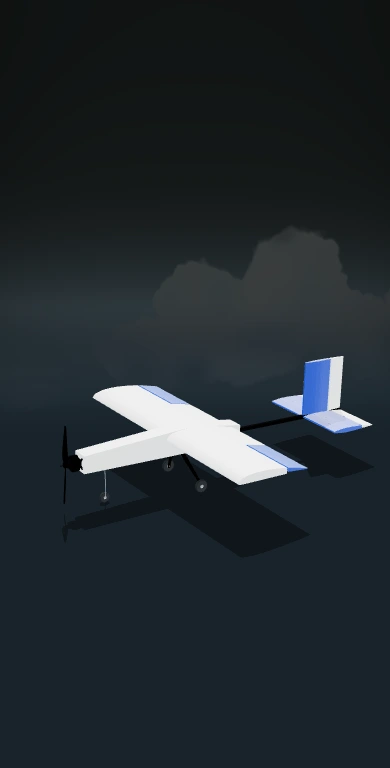
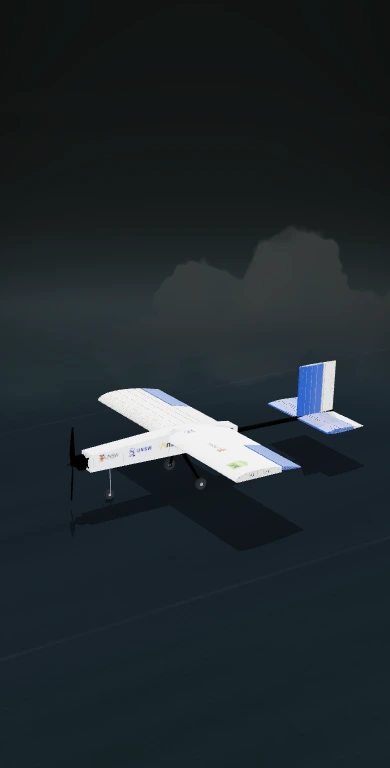
Align trainer livery with reference placements

diff --git a/assets/v3-aircraft-scene.js b/assets/v3-aircraft-scene.js
@@ -67,12 +67,14 @@
     if (metadata.units !== 'metres' || metadata.axes.nose !== '+X' || metadata.axes.up !== '+Y') throw new Error('Unexpected trainer coordinates');
     let trainerLivery = null;
     if (options.trainerLivery) {
-      try {
-        const names = ['left-outer', 'right-inner', 'right-outer'];
-        const maps = await Promise.all(names.map(name => new Promise((resolve, reject) =>
-          new T.TextureLoader().load(directory + 'livery/' + name + '.png', resolve, undefined, reject))));
-        trainerLivery = Object.fromEntries(names.map((name, index) => { maps[index].encoding = T.sRGBEncoding; maps[index].anisotropy = 8; return [name, maps[index]]; }));
-      } catch (_) { /* Keep the trainer available without markings if an image fails. */ }
+      const names = ['left-inner', 'left-outer', 'side-negative', 'side-positive'];
+      const maps = await Promise.all(names.map(name => new Promise(resolve =>
+        new T.TextureLoader().load(directory + 'livery/' + name + '.png?v=trainer-20261105', resolve, undefined, () => resolve(null)))));
+      // An unavailable decal must not suppress the other markings or the model.
+      trainerLivery = Object.fromEntries(names.flatMap((name, index) => {
+        const map = maps[index]; if (!map) return [];
+        map.encoding = T.sRGBEncoding; map.anisotropy = 8; return [[name, map]];
+      }));
     }
     return { group: gltf.scene, metadata, trainerLivery };
   }
@@ -201,15 +203,34 @@
       if (object) filmPanels(T, { ...part, object });
     }
     root.traverse(mesh => {
-      if (!mesh.isMesh || !mesh.userData.separatedFilmPanel) return;
-      const match = mesh.name.match(/^film-wing-(left-outer|right-inner|right-outer)-wrap-sheet-0$/);
-      if (!match) return;
-      const material = mesh.material.clone(); material.map = aircraft.trainerLivery[match[1]];
+      if (!mesh.isMesh) return;
+      let key;
+      const wing = mesh.name.match(/^film-wing-(left-inner|left-outer)-wrap-sheet-0$/);
+      const side = mesh.name.match(/^film-fuselage-body-cap-([01])$/);
+      if (wing && mesh.userData.separatedFilmPanel) key = wing[1];
+      if (side) {
+        key = side[1] === '0' ? 'side-negative' : 'side-positive';
+        // The fuselage caps are flat side sheets in the trainer's metre frame.
+        // Project the artwork in that frame so the logos follow their film
+        // through the hero's peel as well as the assembled fleet presentation.
+        if (aircraft.trainerLivery[key]) {
+          const geometry = mesh.geometry, positions = geometry.attributes.position;
+          const uv = new Float32Array(positions.count * 2);
+          for (let index = 0; index < positions.count; index++) {
+            uv[index * 2] = (positions.getX(index) + .3405) / .995;
+            uv[index * 2 + 1] = (positions.getY(index) - .1905) / .14503;
+          }
+          geometry.setAttribute('uv', new T.BufferAttribute(uv, 2));
+        }
+      }
+      if (!key || !aircraft.trainerLivery[key]) return;
+      const material = mesh.material.clone(); material.map = aircraft.trainerLivery[key];
+      material.color.setRGB(1, 1, 1);
       // The authored film lies on the wing envelope. Keep its printed face
       // in front of coincident underlying surfaces without adding geometry.
       material.polygonOffset = true; material.polygonOffsetFactor = -2; material.polygonOffsetUnits = -2;
       material.roughness = .65; material.metalness = 0; material.clearcoat = 0;
-      mesh.material = material; mesh.userData.trainerLivery = match[1];
+      mesh.material = material; mesh.userData.trainerLivery = key;
     });
   }
   // The authored end tabs are triangle fans. Re-tessellate their planar

diff --git a/v2/projects/skylabs/index.html b/v2/projects/skylabs/index.html
@@ -30,7 +30,7 @@
 <link rel="stylesheet" href="/assets/v2-hardware.css">
 <script src="/assets/v2-hardware.js?v=physical-20261007" defer></script>
 <link rel="stylesheet" href="/assets/v2-skylabs-fleet.css">
-<script src="/assets/v2-skylabs-fleet.js" defer></script>
+<script src="/assets/v2-skylabs-fleet.js?v=trainer-20261105" defer></script>
 </head>
 <body class="v2 v2-case project-page">
   <a class="skip-link" href="/v2/projects/skylabs/#main">Skip to content</a>
@@ -66,7 +66,7 @@
 
     <section class="skylabs-fleet" id="aircraft" data-skylabs-fleet data-fleet-state="static" aria-labelledby="fleet-heading">
       <header class="skylabs-fleet-header"><div><span class="fleet-eyebrow">Skylabs / Aircraft</span><h2 id="fleet-heading">From trainer to competition.</h2><p>A taildragger airframe, a dedicated sensor carriage and a towline returning around the main carbon spar. Scroll through the flight, deployment and return.</p></div><a href="/v2/projects/#skylabs-aircraft">Explore the trainer ↗</a></header>
-      <div class="fleet-track"><div class="fleet-stage"><img class="fleet-poster" src="/assets/models/aircraft/skylabs-competition/poster.webp" width="1440" height="720" alt="Trainer and competition aircraft together, rendered from the existing trainer asset and supplied competition CAD" loading="lazy"><canvas aria-hidden="true"></canvas><div class="fleet-caption"><strong data-fleet-title>01 / Trainer + competition</strong><span data-fleet-caption>Trainer and competition taildragger · source assemblies</span></div><div class="fleet-progress" aria-hidden="true"></div></div></div>
+      <div class="fleet-track"><div class="fleet-stage"><img class="fleet-poster" src="/assets/models/aircraft/skylabs-competition/poster.webp?v=trainer-20261105" width="1440" height="720" alt="Trainer and competition aircraft together, rendered from the existing trainer asset and supplied competition CAD" loading="lazy"><canvas aria-hidden="true"></canvas><div class="fleet-caption"><strong data-fleet-title>01 / Trainer + competition</strong><span data-fleet-caption>Trainer and competition taildragger · source assemblies</span></div><div class="fleet-progress" aria-hidden="true"></div></div></div>
       <p class="fleet-status" role="status">Static CAD preview. Scroll animation is available with motion enabled.</p>
       <div class="fleet-notes"><div><h3>One avionics platform, two airframes.</h3><p>The competition taildragger builds on the trainer’s telemetry platform, with the same ESC provisionally carried forward.</p><p><a href="https://a360.co/4ioq3Ov" target="_blank" rel="noreferrer">Aircraft CAD ↗</a> · <a href="https://a360.co/3WXbmec" target="_blank" rel="noreferrer">Sensor mechanism CAD ↗</a></p></div><div><h3>Out to measure. Back to the aircraft.</h3><p>The Solarfilm peels back to reveal the internal mechanism. The carriage lowers inside the fuselage, then the sensor releases vertically through the bottom on its front-notch tether. The central telemetry board, ESC and control servos stay aboard. The towline loops around the main spar; reverse the scroll to bring the sensor home.</p><p class="fleet-illustrative">Illustrative internal installation and cutaway, using the supplied CAD.</p></div></div>
     </section>

diff --git a/v2/projects/index.html b/v2/projects/index.html
@@ -23,7 +23,7 @@
 <link rel="preload" href="/assets/fonts/archivo-latin-wght-normal.woff2" as="font" type="font/woff2" crossorigin>
 <link rel="stylesheet" href="/assets/aircraft-story.css?v=collection-20261029">
   <script src="/assets/v2-scroll-smoothing.js?v=20261011" defer></script>
-  <script src="/assets/v3-aircraft-hero.js?v=speed-20261029" defer></script>
+  <script src="/assets/v3-aircraft-hero.js?v=trainer-20261105" defer></script>
 </head>
 <body class="v2 v2-collection">
   <a class="skip-link" href="/v2/projects/#collection">Skip to content</a>
@@ -41,7 +41,7 @@
     <section class="v3-aircraft v2-aircraft-feature v2-projects-aircraft" data-aircraft-hero data-aircraft-detailed data-aircraft-deferred data-aircraft-smooth data-aircraft-background data-aircraft-collection aria-labelledby="projects-title">
       <div class="v3-aircraft-stage" data-aircraft-stage>
         <div class="v3-aircraft-visual" data-aircraft-visual>
-          <picture data-aircraft-picture><source media="(max-width:760px)" srcset="/assets/images/v3/skylabs-stopped-mobile.webp?v=sky-20261008" data-approach="/assets/images/v3/skylabs-approach-mobile.webp?v=sky-20261008" data-stopped="/assets/images/v3/skylabs-stopped-mobile.webp?v=sky-20261008"><img data-aircraft-poster src="/assets/images/v3/skylabs-stopped.webp?v=sky-20261008" data-approach="/assets/images/v3/skylabs-approach.webp?v=sky-20261008" data-stopped="/assets/images/v3/skylabs-stopped.webp?v=sky-20261008" width="1600" height="1000" alt="The Skylabs trainer aircraft, with its wing, tail and landing gear assembled" decoding="async" fetchpriority="high"></picture>
+          <picture data-aircraft-picture><source media="(max-width:760px)" srcset="/assets/images/v3/skylabs-stopped-mobile.webp?v=trainer-20261105" data-approach="/assets/images/v3/skylabs-approach-mobile.webp?v=trainer-20261105" data-stopped="/assets/images/v3/skylabs-stopped-mobile.webp?v=trainer-20261105"><img data-aircraft-poster src="/assets/images/v3/skylabs-stopped.webp?v=trainer-20261105" data-approach="/assets/images/v3/skylabs-approach.webp?v=trainer-20261105" data-stopped="/assets/images/v3/skylabs-stopped.webp?v=trainer-20261105" width="1600" height="1000" alt="The Skylabs trainer aircraft, with its wing, tail and landing gear assembled" decoding="async" fetchpriority="high"></picture>
           <canvas data-aircraft-canvas aria-hidden="true"></canvas>
         </div>
         <div class="v3-aircraft-copy" data-aircraft-copy>

diff --git a/assets/v2-skylabs-fleet.js b/assets/v2-skylabs-fleet.js
@@ -79,7 +79,7 @@
   try{
    if(!window.DecompressionStream)throw Error('Static view');
    await script('/assets/vendor/three.min.js',()=>!!window.THREE);await script('/assets/vendor/GLTFLoader.js',()=>!!window.THREE.GLTFLoader);
-   await script('/assets/v3-aircraft-scene.js',()=>!!window.V3AircraftScene);await script('/assets/v2-hero-environment.js',()=>!!window.V2ProductStudio);await script('/assets/v2-skylabs-film.js',()=>!!window.V2SkylabsFilm);await script('/assets/v2-hero-assets.js',()=>!!window.V2HeroAssets);await script('/assets/v3-aircraft-electronics.js',()=>!!window.V3AircraftElectronics);await script('/assets/v2-skylabs-systems.js',()=>!!window.V2SkylabsSystems);
+   await script('/assets/v3-aircraft-scene.js?v=trainer-20261105',()=>!!window.V3AircraftScene);await script('/assets/v2-hero-environment.js',()=>!!window.V2ProductStudio);await script('/assets/v2-skylabs-film.js',()=>!!window.V2SkylabsFilm);await script('/assets/v2-hero-assets.js',()=>!!window.V2HeroAssets);await script('/assets/v3-aircraft-electronics.js',()=>!!window.V3AircraftElectronics);await script('/assets/v2-skylabs-systems.js',()=>!!window.V2SkylabsSystems);
    const models=await Promise.all([asset('skylabs-competition'),asset('skylabs-mechanism'),window.V3AircraftScene.load(window.THREE,{trainerLivery:true}),asset('skylabs-mechanism','sensor-body.glb.gz'),fetch('/assets/models/aircraft/skylabs-competition/solarfilm.json.gz').then(async response=>{if(!response.ok)throw Error('Film unavailable');return new Response(response.body.pipeThrough(new DecompressionStream('gzip'))).json();}),window.V2HeroAssets.load('telemetry'),Promise.all(['left-white','left-blue','right-white','right-blue'].map(name=>new Promise((resolve,reject)=>new THREE.TextureLoader().load('/assets/models/aircraft/skylabs-competition/livery/'+name+'.png',resolve,undefined,reject)))).catch(()=>null)]);const T=THREE;
    const livery=models[6]?Object.fromEntries(['left-white','left-blue','right-white','right-blue'].map((name,index)=>{const texture=models[6][index];texture.encoding=T.sRGBEncoding;return [name,texture];})):{};root.dataset.fleetLivery=models[6]?'ready':'unavailable';
    scene=new T.Scene();camera=new T.PerspectiveCamera(37,1,.2,20);renderer=new T.WebGLRenderer({canvas,alpha:true,antialias:true,preserveDrawingBuffer:true});renderer.outputEncoding=T.sRGBEncoding;renderer.toneMapping=T.ACESFilmicToneMapping;renderer.toneMappingExposure=.8;

diff --git a/assets/v3-aircraft-hero.js b/assets/v3-aircraft-hero.js
@@ -474,7 +474,7 @@
           // The decoder is independent of Three and the scene factory. Start
           // both helpers together so their round trips do not serialize.
           await Promise.all([
-            window.V3AircraftScene ? Promise.resolve() : script('/assets/v3-aircraft-scene.js?v=' + (background ? 'speed-20261029' : 'aircraft-transition-20261010')),
+            window.V3AircraftScene ? Promise.resolve() : script('/assets/v3-aircraft-scene.js?v=' + (background ? 'trainer-20261105' : 'aircraft-transition-20261010')),
             background && !window.MeshoptDecoder ? script('/assets/vendor/meshopt_decoder.js').catch(() => {}) : Promise.resolve()
           ]);
           if (!sourceEligible()) return;

diff --git a/scripts/build-trainer-livery.py b/scripts/build-trainer-livery.py
@@ -1,0 +1,90 @@
+"""Build trainer-only livery from the checked-in logo sources.
+
+The sponsor gaps on the fuselage remain blank where source artwork was not
+available. Wing coordinates are expressed in metres along the port half-span;
+side coordinates are normalized along the physical fuselage (rear to nose).
+"""
+from pathlib import Path
+from PIL import Image, ImageDraw, ImageChops
+
+ROOT = Path(__file__).resolve().parents[1]
+SOURCE = ROOT / 'scripts/fixtures/skylabs-livery'
+DEST = ROOT / 'assets/models/aircraft/skylabs-trainer/livery'
+DEST.mkdir(parents=True, exist_ok=True)
+R = Image.Resampling.LANCZOS
+
+def load(name): return Image.open(SOURCE / name).convert('RGBA')
+def fit(image, size):
+    ratio = min(size[0] / image.width, size[1] / image.height)
+    return image.resize((max(1, round(image.width * ratio)), max(1, round(image.height * ratio))), R)
+
+unsw = load('unsw.png')
+# Recompose the supplied crest and wordmark as the horizontal lockup.
+crest = unsw.crop((145, 0, 344, 312)); word = unsw.crop((0, 323, 489, 512))
+crest = fit(crest, (250, 360)); word = fit(word, (710, 280))
+unsw_horizontal = Image.new('RGBA', (crest.width + word.width + 24, max(crest.height, word.height)), (255,255,255,0))
+unsw_horizontal.alpha_composite(crest, (0, (unsw_horizontal.height-crest.height)//2))
+unsw_horizontal.alpha_composite(word, (crest.width+24, (unsw_horizontal.height-word.height)//2))
+sky = load('skylabs.png').crop((43, 152, 414, 295))
+bird = load('skylabs.png').crop((43, 152, 169, 295))
+original = load('arc.png').convert('RGB'); arc = Image.new('RGBA', original.size, (0,0,0,0)); mask = Image.new('L', original.size, 0)
+ImageDraw.Draw(mask).polygon([(9,19),(383,19),(383,399),(196,484),(9,399)],fill=255)
+pixels, source, inside = arc.load(), original.load(), mask.load()
+for y in range(arc.height):
+    for x in range(arc.width):
+        if inside[x,y]:
+            r,g,b=source[x,y]
+            if max(r,g,b)-min(r,g,b)<12:
+                # Arc lettering is dark; CLUBS and the supporting text remain
+                # white. The source image's glyphs contain a checker pattern.
+                pixels[x,y] = (28,36,33,255) if 45 <= x <= 325 and 60 <= y <= 230 else (255,255,255,255)
+            else: pixels[x,y] = (r,g,b,255)
+arc=arc.crop((9,19,384,485)); ansys=load('ansys.png'); flag=load('australia.png'); leap=load('leap.png')
+# The monochrome Simple Icons vector supplies the authentic silhouette. Restore
+# the amber A used by the brand while retaining its antialiased alpha mask.
+for x in range(round(ansys.width * .29)):
+    for y in range(ansys.height):
+        r,g,b,a=ansys.getpixel((x,y))
+        if a: ansys.putpixel((x,y),(255,183,27,a))
+# This sponsor asset has an opaque white margin; trim it before sizing.
+background=Image.new('RGB',leap.size,'white')
+bbox=ImageChops.difference(leap.convert('RGB'),background).getbbox()
+if bbox: leap=leap.crop(bbox)
+
+
+# Each map covers a split fixed-wing film sheet. U starts at the leading
+# edge, V runs root to tip. Draw the same physical logo into both maps at the
+# join so a marking can cross that join without distortion or duplication.
+half_span=.7504; seam=.3744; W=H=1024
+wing_marks=[(bird,.12,.075,.075),(unsw_horizontal,.48,.145,.065),(arc,.84,.115,.100)]
+for name,start,end,chord in [('left-inner',0,seam,.441089),('left-outer',seam,half_span,.305522)]:
+    out=Image.new('RGBA',(W,H),'white')
+    for image,centre,span_size,chord_size in wing_marks:
+        # Upright artwork: top faces leading edge; writing runs root to tip.
+        rotated=image.rotate(90,expand=True)
+        # Preserve physical proportions, which differ from the UV canvas ratio.
+        logical=fit(image,(round(span_size*10000),round(chord_size*10000)))
+        span_m=logical.width/10000; chord_m=logical.height/10000
+        rotated=logical.rotate(90,expand=True).transpose(Image.Transpose.FLIP_TOP_BOTTOM).resize((max(1,round(chord_m/chord*W)),max(1,round(span_m/(end-start)*H))),R)
+        u = (.325 if name == 'left-inner' or centre != .48 else .440)
+        x=round(u*W-rotated.width/2); y=round((1-(centre*half_span-start)/(end-start))*H-rotated.height/2)
+        out.alpha_composite(rotated,(x,y))
+    out.convert('RGB').save(DEST/(name+'.png'),optimize=True)
+
+# Fuselage maps use U=(x+0.3405)/0.995, V=(y-0.1905)/0.14503.
+# The port viewer sees X decreasing left-to-right; flip that side's artwork in
+# texture space so it reads naturally from outside. Position remains physical.
+W,H=2048,512; length=.995; height=.14503
+for name,marks,mirror in [
+    ('side-negative',[(unsw_horizontal,.88,.125,.070),(sky,.68,.205,.064),(ansys,.47,.145,.045),(flag,.105,.140,.080)],True),
+    ('side-positive',[(sky,.74,.205,.064),(leap,.40,.100,.060),(flag,.105,.140,.080)],False),
+]:
+    out=Image.new('RGBA',(W,H),'white')
+    for image,centre,width_m,height_m in marks:
+        logical=fit(image,(round(width_m*10000),round(height_m*10000))) if image is not flag else image.resize((round(width_m*10000),round(height_m*10000)),R)
+        physical_w=logical.width/10000;physical_h=logical.height/10000
+        logo=logical.resize((max(1,round(physical_w/length*W)),max(1,round(physical_h/height*H))),R)
+        if mirror: logo=logo.transpose(Image.Transpose.FLIP_LEFT_RIGHT)
+        row_centre = .59 * H if image is flag else .5 * H
+        out.alpha_composite(logo,(round(centre*W-logo.width/2),round(row_centre-logo.height/2)))
+    out.convert('RGB').save(DEST/(name+'.png'),optimize=True)

diff --git a/scripts/build-v2-cases.py b/scripts/build-v2-cases.py
@@ -598,7 +598,7 @@ def projects_aircraft_header():
     return '''<section class="v3-aircraft v2-aircraft-feature v2-projects-aircraft" data-aircraft-hero data-aircraft-detailed data-aircraft-deferred data-aircraft-smooth data-aircraft-background data-aircraft-collection aria-labelledby="projects-title">
       <div class="v3-aircraft-stage" data-aircraft-stage>
         <div class="v3-aircraft-visual" data-aircraft-visual>
-          <picture data-aircraft-picture><source media="(max-width:760px)" srcset="/assets/images/v3/skylabs-stopped-mobile.webp?v=sky-20261008" data-approach="/assets/images/v3/skylabs-approach-mobile.webp?v=sky-20261008" data-stopped="/assets/images/v3/skylabs-stopped-mobile.webp?v=sky-20261008"><img data-aircraft-poster src="/assets/images/v3/skylabs-stopped.webp?v=sky-20261008" data-approach="/assets/images/v3/skylabs-approach.webp?v=sky-20261008" data-stopped="/assets/images/v3/skylabs-stopped.webp?v=sky-20261008" width="1600" height="1000" alt="The Skylabs trainer aircraft, with its wing, tail and landing gear assembled" decoding="async" fetchpriority="high"></picture>
+          <picture data-aircraft-picture><source media="(max-width:760px)" srcset="/assets/images/v3/skylabs-stopped-mobile.webp?v=trainer-20261105" data-approach="/assets/images/v3/skylabs-approach-mobile.webp?v=trainer-20261105" data-stopped="/assets/images/v3/skylabs-stopped-mobile.webp?v=trainer-20261105"><img data-aircraft-poster src="/assets/images/v3/skylabs-stopped.webp?v=trainer-20261105" data-approach="/assets/images/v3/skylabs-approach.webp?v=trainer-20261105" data-stopped="/assets/images/v3/skylabs-stopped.webp?v=trainer-20261105" width="1600" height="1000" alt="The Skylabs trainer aircraft, with its wing, tail and landing gear assembled" decoding="async" fetchpriority="high"></picture>
           <canvas data-aircraft-canvas aria-hidden="true"></canvas>
         </div>
         <div class="v3-aircraft-copy" data-aircraft-copy>
@@ -705,7 +705,7 @@ def make_index():
     source = source.replace('class="skip-link" href="/v2/projects/#main"', 'class="skip-link" href="/v2/projects/#collection"')
     source = source.replace('</head>', '''<link rel="stylesheet" href="/assets/aircraft-story.css?v=collection-20261029">
   <script src="/assets/v2-scroll-smoothing.js?v=20261011" defer></script>
-  <script src="/assets/v3-aircraft-hero.js?v=speed-20261029" defer></script>
+  <script src="/assets/v3-aircraft-hero.js?v=trainer-20261105" defer></script>
 </head>''')
     return '\n'.join(line.rstrip() for line in source.splitlines()) + '\n'
 

diff --git a/scripts/fixtures/skylabs-livery/README.md b/scripts/fixtures/skylabs-livery/README.md
@@ -1,0 +1,9 @@
+# Trainer artwork sources
+
+The existing `arc.png`, `unsw.png` and `skylabs.png` were supplied for the earlier wing livery. The trainer-only builder uses those images and these additional public sources:
+
+- `ansys.svg` is the [Simple Icons Ansys silhouette](https://github.com/simple-icons/simple-icons/blob/develop/icons/ansys.svg), distributed under [CC0](https://github.com/simple-icons/simple-icons/blob/develop/LICENSE.md). `ansys.png` is a raster of that vector. The builder restores the amber A to the otherwise monochrome silhouette.
+- `australia.svg` is the 2:1 [Australian flag vector](https://github.com/hampusborgos/country-flags/blob/main/svg/au.svg) from the country-flags collection, which records its [sources and license](https://github.com/hampusborgos/country-flags#credits). `australia.png` is its raster. It is proportioned to the requested 1.74:1 marking on the model.
+- `leap.png` is the [LEAP sponsor artwork](https://github.com/Chen222Xi/UTAS-MotorSports/blob/9f6a302e3adb6e3cfb6f5e4f939f601121e32650/utas-motorsport/assets/images/leap.png) from a university motorsports [sponsors page](https://github.com/Chen222Xi/UTAS-MotorSports/blob/9f6a302e3adb6e3cfb6f5e4f939f601121e32650/utas-motorsport/page-sponsors.php).
+
+The trademarks remain those of their respective owners. The Mad 4 Heli position is intentionally blank because a usable source was not available in this environment. The private reference photos are not used in these files.
